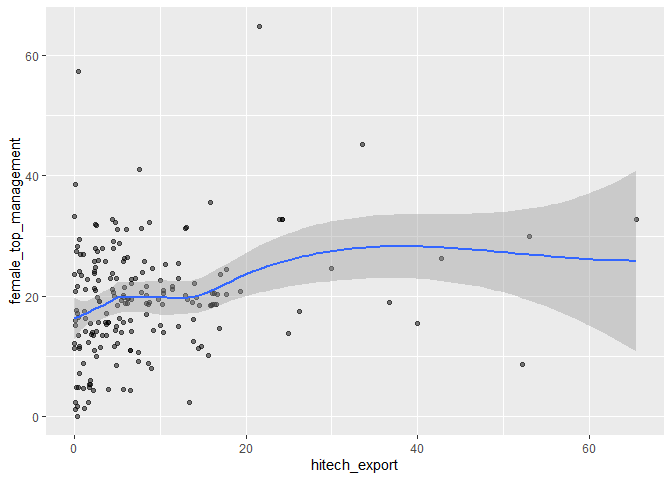
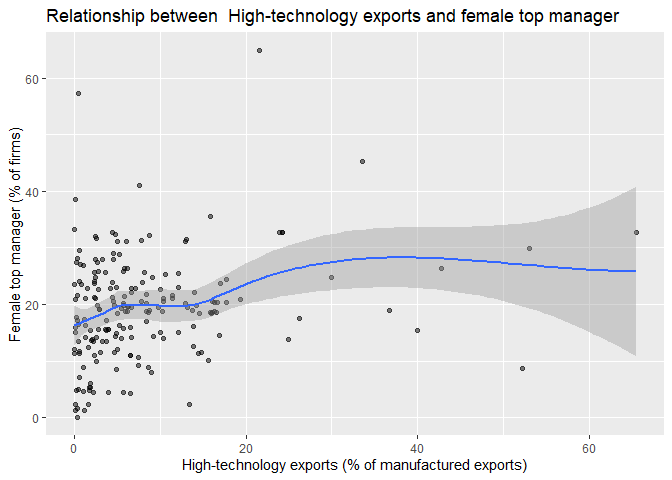
Wrote analysis

diff --git a/world_bank.md b/world_bank.md
@@ -8,28 +8,49 @@ Kejing Li
 library(tidyverse)
 ```
 
-    ## -- Attaching packages --------------------------------------- tidyverse 1.2.1 --
+    ## -- Attaching packages ---------------------------------------------------------------------- tidyverse 1.2.1 --
 
     ## v ggplot2 3.2.1     v purrr   0.3.2
     ## v tibble  2.1.3     v dplyr   0.8.3
     ## v tidyr   1.0.0     v stringr 1.4.0
     ## v readr   1.3.1     v forcats 0.4.0
 
-    ## -- Conflicts ------------------------------------------ tidyverse_conflicts() --
+    ## -- Conflicts ------------------------------------------------------------------------- tidyverse_conflicts() --
     ## x dplyr::filter() masks stats::filter()
     ## x dplyr::lag()    masks stats::lag()
+
+## Introduction
+
+> “Gender inequality is not only a pressing moral and social issue, but
+> also a critical economic \>challenge.” — McKinsey Global Institute
+
+This report intends to explore the female representation in top
+management.
+
+Gender inequality is a commonplace talk of an old scholar. However, in
+recent years, the phenomenon is discussed under a new context -
+leadership in business. Incessant evidences suggest that the gender
+diversity contributes to the bussiness operation. To better understand
+the current development, this report analyzes four variables from the
+world bank database:
+
+1.  High-technology exports (% of manufactured exports)
+2.  Firms with female top manager (% of firms)
+3.  Firms with female participation in ownership (% of firms)
+4.  Start-up procedures to register a business)
 
 ## Write a function to import the data files
 
 ``` r
 read_and_tidy <- function(path) {
   data <- read.csv(path, skip = 4) %>%
+ #select & filter data needed for analysis
   select(-Country.Code, -Indicator.Name)%>%
   filter(Indicator.Code %in% c("IC.FRM.FEMO.ZS",
                                "IC.FRM.FEMM.ZS",
                                "IC.REG.PROC.FE",
                                "TX.VAL.TECH.MF.ZS"))%>%
-     
+  #put each observations in row, each variables in its columns
     pivot_longer(-c("Country.Name",
                     "Indicator.Code"),
                  names_to = "Year",
@@ -37,6 +58,7 @@ read_and_tidy <- function(path) {
                  names_prefix = "X") %>%
     pivot_wider(names_from = "Indicator.Code",
                 values_from = "Value") %>%
+  #remane the code in to infomative names
     rename(hitech_export = TX.VAL.TECH.MF.ZS,
            female_register_procedure = IC.REG.PROC.FE,
            female_ownership_participation = IC.FRM.FEMO.ZS,
@@ -48,8 +70,11 @@ read_and_tidy <- function(path) {
 ## Import the data
 
 ``` r
+# silent the warning message
 directory <- dir(path = "data_world_bank", full.names = TRUE)
+#create an empty dataframe
 data <- data.frame()
+#use 'for' loop to input and combine data
 for (i in seq_along(directory)){
   data <- bind_rows(data, read_and_tidy(directory[i]))
 }
@@ -58,6 +83,12 @@ for (i in seq_along(directory)){
 ## Explore the data
 
 ### Firms with female participation in ownership by year
+
+As shown below, the data start merely from the 21 century when the
+phenomenon came into the public attention. But the overall trend doesn’t
+appear any upward nor downward trend over the period. Whatever the
+variation, less than half of the firms have female participated in the
+ownership.
 
 ``` r
 data %>%
@@ -72,6 +103,11 @@ data %>%
 ![](world_bank_files/figure-gfm/unnamed-chunk-4-1.png)<!-- -->
 
 ### Firms with female top manager by year
+
+As like the female participation in ownership data, percentage of firms
+with female manager don’t have apparent trend over the years concerned,
+but with a even lower average, fluctuating between 10% to 20%. Females
+are largely underrepresented in the top management.
 
 ``` r
 data %>%
@@ -89,6 +125,15 @@ data %>%
 
 ### Covariance of female participation in ownership and female top manager
 
+Since neither the percentage of female in top mangement nor female
+participation in ownership alone indicate any trend along the years.
+Doubts arise whether these two variables are telling the same story.
+Covariance analysis is hereby given that demonstrates these two
+variables are positively related to each other. Where females appear
+more often as top managers, female participation in ownership is
+correspondingly higher. This result suggests the position of female in
+leadership is consistent across different measurements.
+
 ``` r
 data%>%
   drop_na(female_ownership_participation, female_top_management) %>%
@@ -96,7 +141,7 @@ data%>%
   ggplot()+
   geom_smooth(aes(female_top_management,female_ownership_participation))+
 labs(title = "Relationship between female participation in ownership and female top manager",
-        x = "Female top manager",
+        x = "Female top manager(% of firms)",
         y = "Female participation in ownership")
 ```
 
@@ -104,7 +149,17 @@ labs(title = "Relationship between female participation in ownership and female 
 
 ![](world_bank_files/figure-gfm/unnamed-chunk-6-1.png)<!-- -->
 
-### Covariance of Start-up procedures to register a business(female) and female top manager
+### Look into the phenomenon
+
+Previous analysis proved the existence of the gender inequality, and
+showed a stagnant situation. Such situation set me thinking, wondering
+what relates to or causes the phenomenon. Therefore, shown below, I
+tested two possible related variables, but the output failed to give any
+enlightment. However, it could be just that the number or quality of
+dataset isn’t good enough to reflect the reality. Besides, other
+variables may be included to give more insights.
+
+#### Covariance of Start-up procedures to register a business(female) and female top manager
 
 ``` r
 data%>%
@@ -113,14 +168,17 @@ data%>%
   ggplot()+
   scale_x_continuous(limits = c(0, 15))+
   geom_boxplot(aes(female_register_procedure, female_top_management,
-                  group = cut_width(female_register_procedure, 2)))
+                  group = cut_width(female_register_procedure, 2)))+
+  labs(title = "Relationship between  Start-up procedures to register a business(female) and female top manager",
+        x = "Start-up procedures to register a business(female)",
+        y = "Female top manager (% of firms)")
 ```
 
     ## Warning: Removed 3 rows containing missing values (stat_boxplot).
 
 ![](world_bank_files/figure-gfm/unnamed-chunk-7-1.png)<!-- -->
 
-### Covariance of High-technology exports and female top manager
+#### Covariance of High-technology exports and female top manager
 
 ``` r
 data%>%
@@ -128,7 +186,10 @@ data%>%
   group_by(Country.Name)%>%
   ggplot(aes(hitech_export, female_top_management))+
   geom_point(alpha = 1/2)+
-  geom_smooth()
+  geom_smooth()+
+  labs(title = "Relationship between  High-technology exports and female top manager",
+        x = "High-technology exports (% of manufactured exports)",
+        y = "Female top manager (% of firms)")
 ```
 
     ## `geom_smooth()` using method = 'loess' and formula 'y ~ x'
@@ -151,7 +212,7 @@ devtools::session_info()
     ##  collate  English_United States.1252  
     ##  ctype    English_United States.1252  
     ##  tz       America/Chicago             
-    ##  date     2019-10-27                  
+    ##  date     2019-10-28                  
     ## 
     ## - Packages --------------------------------------------------------------
     ##  package     * version date       lib source        
